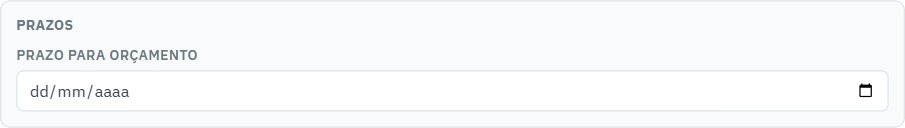
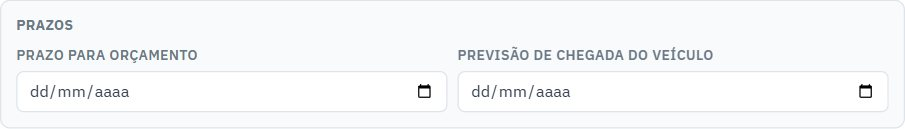
Manual do SAC: foto 34e refeita com a Previsão de chegada do veículo no bloco Prazos

diff --git a/public/manuais/sac/index.html b/public/manuais/sac/index.html
@@ -581,7 +581,7 @@ tbody tr:nth-child(even) td{background:color-mix(in srgb,var(--verde-claro) 28%,
 <h1 id="apêndice-pontos-de-melhoria-já-mapeados"><span class="parte">Parte 7</span>Apêndice: pontos de melhoria já mapeados</h1>
 <p>A análise do setor (arquivo <strong>PLANO_SAC_MELHORIAS_UX.md</strong>, hoje na pasta de planos concluídos) listou o que podia ficar mais claro na tela, e tudo o que era decisão do SAC já foi resolvido:</p>
 <ul class="lista"><li>A <strong>entrega do veículo</strong> colhe assinatura e fotos, como a do Laboratório.</li><li>A OS de <strong>veículo sem cobrança</strong> pula a verificação e a aprovação e vai direto a <strong>Aguardando Início</strong>.</li></ul>
-<p>Se você achar algo confuso na tela, avise a TI: o plano é o lugar onde isso entra.</p><h1 id="historico-do-manual"><span class="parte">Fim</span>Histórico deste manual</h1><ul class="lista"><li><strong>12/11/2026</strong> — Previsão de chegada do veículo: a Nova OS de veículo que vem à fábrica ganha o campo no bloco Prazos (não aceita dia passado), o menu ⋯ ganha &quot;Previsão de chegada&quot; para informar ou mudar o dia enquanto o carro não chegou, o resumo da OS mostra a previsão antes da chegada real, e o Calendário avisa quem abriu a OS, o responsável, a Produção e o Almoxarifado até a Produção confirmar a chegada. A foto 34e (bloco Prazos) ainda é a de antes do campo.</li><li><strong>03/11/2026</strong> — Entrega do veículo (A5): a janela passa a colher, como a do Laboratório, o nome de quem recebeu, as fotos (opcionais) e a assinatura (obrigatória); o botão agora se chama Entrega — assinatura e fotos nos dois casos, e a entrega do veículo só é gravada se a OS ainda estiver esperando a entrega. O apêndice de pontos de melhoria ficou sem itens abertos. Foto nova da janela Entrega de Veículo (20b).</li><li><strong>03/11/2026</strong> — Veículo sem cobrança na Produção (A8): ao marcar Chegou, a OS de garantia ou cortesia vai direto a Aguardando Início, sem Verificação e Orçamento e sem a aprovação do cliente; ao concluir, não há revisão de orçamento. O aviso de &quot;a confirmar&quot; do caminho 5 saiu.</li><li><strong>03/11/2026</strong> — Acabamento (Onda 4): novo &quot;Passar as OS do lote…&quot; passa várias OS do lote de uma vez (seguir sem cotação, os passos sem janela própria e cancelar com um motivo só, cada OS conferida pela etapa em que está); a Nova OS esconde acessórios, fotos, faturamento, valores e vínculo com o CRM em &quot;Mais dados&quot; e mostra &quot;Falta: …&quot; ao lado do ABRIR OS; Aprovado e Provisionada passam a azul (andamento); as colunas de tempo da lista ficam atrás de &quot;Mais colunas&quot;; a lista lê mais de mil OS e os erros do banco aparecem em português. Fotos 01 a 35 refeitas, novas 29b, 34f0 e 34m.</li><li><strong>03/11/2026</strong> — Chamados NFC e Garantia: o chamado aberto há 3 dias ou mais ganha o selo vermelho &quot;Aberto há N dias&quot;; Concluir pede a nota do que foi feito (obrigatória); o botão Carregar virou Atualizar; novo botão Abrir OS leva o chamado à Nova OS já preenchida. Na Garantia, a lista tem a ordem (mais parados primeiro) e a coluna &quot;Etapa e próximo passo&quot;; a ficha ganhou a faixa &quot;Próximo passo&quot; e recolhe as seções já concluídas; as seções de peças foram renomeadas (Compra de peça e Peça defeituosa). Fotos 40, 41, 50 e 52 a 69 refeitas.</li><li><strong>03/11/2026</strong> — Encontrar e agir: a legenda de etapas começa fechada (&quot;Como a OS caminha&quot;); o painel de quem age mostra 3 linhas clicáveis (abrem o resumo da OS) e &quot;Ver todas na lista&quot;; a lista se atualiza sozinha a cada minuto, com o botão Atualizar e a hora da última leitura; o menu ⋯ da OS ganhou três grupos (Dados da OS, Mover a OS, Encerrar a OS) com o cancelamento por último e em vermelho; o filtro de tipo de serviço vem do cadastro. Fotos 01 a 35 refeitas.</li><li><strong>03/11/2026</strong> — Textos e proteções da tela do SAC: botões e colunas com o nome por extenso (Acompanhamento, Responsável, Ver orçamento, Atendimento, Quantidade); os botões Enviar ao Fiscal e Entrega dizem o que a janela pede; o tipo Garantia vira Tipo do sistema (sem Desativar) e os outros cadastros pedem confirmação; o quadro avisa que no celular se usa o menu ⋯; a barra do veículo presencial deixa de voltar uma casa; a ajuda de Presencial e a mensagem de lista vazia foram corrigidas.</li><li><strong>30/10/2026</strong> — Primeira versão: as quatro abas, os seis caminhos da OS, o registro de atendimento já realizado, o painel de quem age e a ficha de garantia por inteiro.</li></ul></main>
+<p>Se você achar algo confuso na tela, avise a TI: o plano é o lugar onde isso entra.</p><h1 id="historico-do-manual"><span class="parte">Fim</span>Histórico deste manual</h1><ul class="lista"><li><strong>12/11/2026</strong> — Previsão de chegada do veículo: a Nova OS de veículo que vem à fábrica ganha o campo no bloco Prazos (não aceita dia passado), o menu ⋯ ganha &quot;Previsão de chegada&quot; para informar ou mudar o dia enquanto o carro não chegou, o resumo da OS mostra a previsão antes da chegada real, e o Calendário avisa quem abriu a OS, o responsável, a Produção e o Almoxarifado até a Produção confirmar a chegada. Foto 34e (bloco Prazos) refeita, agora com o campo.</li><li><strong>03/11/2026</strong> — Entrega do veículo (A5): a janela passa a colher, como a do Laboratório, o nome de quem recebeu, as fotos (opcionais) e a assinatura (obrigatória); o botão agora se chama Entrega — assinatura e fotos nos dois casos, e a entrega do veículo só é gravada se a OS ainda estiver esperando a entrega. O apêndice de pontos de melhoria ficou sem itens abertos. Foto nova da janela Entrega de Veículo (20b).</li><li><strong>03/11/2026</strong> — Veículo sem cobrança na Produção (A8): ao marcar Chegou, a OS de garantia ou cortesia vai direto a Aguardando Início, sem Verificação e Orçamento e sem a aprovação do cliente; ao concluir, não há revisão de orçamento. O aviso de &quot;a confirmar&quot; do caminho 5 saiu.</li><li><strong>03/11/2026</strong> — Acabamento (Onda 4): novo &quot;Passar as OS do lote…&quot; passa várias OS do lote de uma vez (seguir sem cotação, os passos sem janela própria e cancelar com um motivo só, cada OS conferida pela etapa em que está); a Nova OS esconde acessórios, fotos, faturamento, valores e vínculo com o CRM em &quot;Mais dados&quot; e mostra &quot;Falta: …&quot; ao lado do ABRIR OS; Aprovado e Provisionada passam a azul (andamento); as colunas de tempo da lista ficam atrás de &quot;Mais colunas&quot;; a lista lê mais de mil OS e os erros do banco aparecem em português. Fotos 01 a 35 refeitas, novas 29b, 34f0 e 34m.</li><li><strong>03/11/2026</strong> — Chamados NFC e Garantia: o chamado aberto há 3 dias ou mais ganha o selo vermelho &quot;Aberto há N dias&quot;; Concluir pede a nota do que foi feito (obrigatória); o botão Carregar virou Atualizar; novo botão Abrir OS leva o chamado à Nova OS já preenchida. Na Garantia, a lista tem a ordem (mais parados primeiro) e a coluna &quot;Etapa e próximo passo&quot;; a ficha ganhou a faixa &quot;Próximo passo&quot; e recolhe as seções já concluídas; as seções de peças foram renomeadas (Compra de peça e Peça defeituosa). Fotos 40, 41, 50 e 52 a 69 refeitas.</li><li><strong>03/11/2026</strong> — Encontrar e agir: a legenda de etapas começa fechada (&quot;Como a OS caminha&quot;); o painel de quem age mostra 3 linhas clicáveis (abrem o resumo da OS) e &quot;Ver todas na lista&quot;; a lista se atualiza sozinha a cada minuto, com o botão Atualizar e a hora da última leitura; o menu ⋯ da OS ganhou três grupos (Dados da OS, Mover a OS, Encerrar a OS) com o cancelamento por último e em vermelho; o filtro de tipo de serviço vem do cadastro. Fotos 01 a 35 refeitas.</li><li><strong>03/11/2026</strong> — Textos e proteções da tela do SAC: botões e colunas com o nome por extenso (Acompanhamento, Responsável, Ver orçamento, Atendimento, Quantidade); os botões Enviar ao Fiscal e Entrega dizem o que a janela pede; o tipo Garantia vira Tipo do sistema (sem Desativar) e os outros cadastros pedem confirmação; o quadro avisa que no celular se usa o menu ⋯; a barra do veículo presencial deixa de voltar uma casa; a ajuda de Presencial e a mensagem de lista vazia foram corrigidas.</li><li><strong>30/10/2026</strong> — Primeira versão: as quatro abas, os seis caminhos da OS, o registro de atendimento já realizado, o painel de quem age e a ficha de garantia por inteiro.</li></ul></main>
 </div>
 <script>
 (function(){
